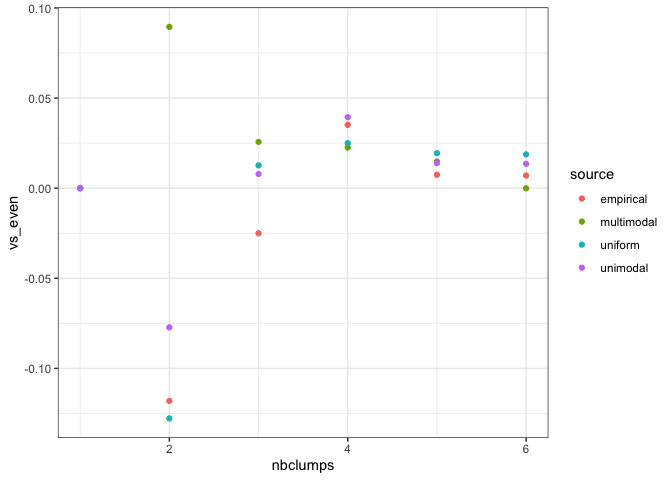
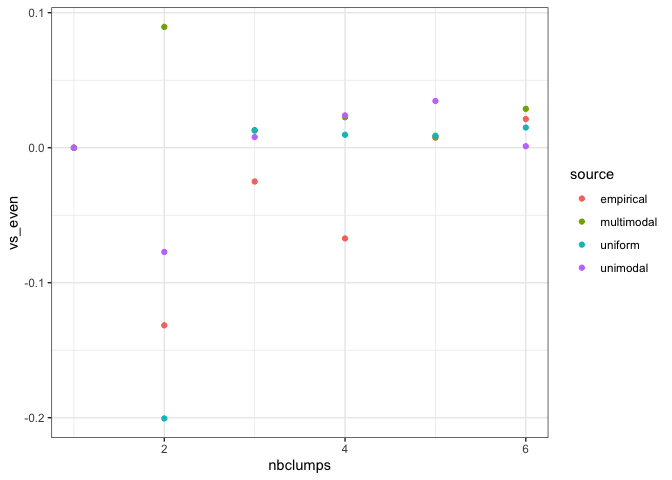
there's something funny about the elbow function

diff --git a/analysis/reports/bsd_decay.md b/analysis/reports/bsd_decay.md
@@ -43,26 +43,15 @@ unimodal_log_bsd <- draw_unimodal_bsd(ebsd$logwgt)
 mmodal_log_bsd_full <- draw_multimodal_bsd(emp_vector = ebsd$logwgt, min_sd_coeff = .5, max_sd_coeff = .5)
 
 mmodal_log_bsd <- mmodal_log_bsd_full$bsd
-even_log_bsd <- seq(from = .75 * min(ebsd$logwgt), to = 1.1 *max(ebsd$logwgt),
-                    length.out = length(ebsd$logwgt))
-
-
-uniform_bsd <- draw_uniform_bsd(s = nrow(ebsd), min = .75 * min(ebsd$meanwgt), max = 1.1 * max(ebsd$meanwgt))
-unimodal_bsd <- draw_unimodal_bsd(ebsd$meanwgt)
-mmodal_bsd_full <- draw_multimodal_bsd(emp_vector = ebsd$meanwgt, min_mode_gap = 20, min_sd_coeff = .5, max_sd_coeff = .5)
-mmodal_bsd <- mmodal_bsd_full$bsd
-even_bsd <- seq(from = .75 * min(ebsd$meanwgt), to = 1.1 *max(ebsd$meanwgt),
-                length.out = length(ebsd$meanwgt))
 ```
 
 ``` r
 all_log_bsds <- data.frame(
-  vals = c(mmodal_log_bsd, uniform_log_bsd, unimodal_log_bsd, ebsd$logwgt), #, even_log_bsd),
+  vals = c(mmodal_log_bsd, uniform_log_bsd, unimodal_log_bsd, ebsd$logwgt),
   source = c(rep("multimodal", nrow(ebsd)),
              rep("uniform", nrow(ebsd)), 
              rep("unimodal", nrow(ebsd)),
-             rep("empirical", nrow(ebsd)))#,
-  #rep("even", nrow(ebsd)))
+             rep("empirical", nrow(ebsd)))
 )
 
 
@@ -77,32 +66,6 @@ all_log_bsd_plot
 ![](bsd_decay_files/figure-markdown_github/visualize-1.png)
 
 ``` r
-all_bsds <- data.frame(
-  vals = c(mmodal_bsd, uniform_bsd, unimodal_bsd, ebsd$meanwgt), #, even_bsd),
-  source = c(rep("multimodal", nrow(ebsd)),
-             rep("uniform", nrow(ebsd)), 
-             rep("unimodal", nrow(ebsd)),
-             rep("empirical", nrow(ebsd)))#,
-  #rep("even", nrow(ebsd)))
-)
-
-
-all_bsd_plot <- ggplot(data = all_bsds, aes(x = vals, y = source, color = source)) +
-  geom_point() +
-  theme_bw() +
-  theme(legend.position = "none")
-
-all_bsd_plot
-```
-
-![](bsd_decay_files/figure-markdown_github/visualize-2.png)
-
-``` r
-# 
-# raw_ssq<- all_bsds %>%
-#   group_by(source) %>%
-#   summarize(ssq_prop = get_ssq_prop(vals))
-
 all_log_ssq <- list() 
 for(i in 1:6) {
   all_log_ssq[[i]] <-  all_log_bsds %>%
@@ -122,54 +85,12 @@ log_ssq_plot
 
 ![](bsd_decay_files/figure-markdown_github/playing%20with%20kmeans-1.png)
 
-``` r
-all_ssq <- list() 
-
-for(i in 1:10) {
-  all_ssq[[i]] <- all_bsds %>%
-    group_by(source) %>%
-    summarize(ssq_prop = get_ssq_prop(vals, nbclumps = i)) %>%
-    ungroup() %>%
-    mutate(nbclumps = i)
-}
-
-all_ssq <- bind_rows(all_ssq)
-
-ssq_plot <- ggplot(data =all_ssq, aes(x = nbclumps, y = ssq_prop, color = source)) + 
-  geom_line() +
-  theme_bw()
-ssq_plot
-```
-
-![](bsd_decay_files/figure-markdown_github/playing%20with%20kmeans-2.png)
-
-``` r
-#raw_ssq
-#log_ssq
-```
-
 Maybe you could pick the nb clumps based on the elbow of the scree plot of the within group sum of squares? When the slope starts to become less negative, truncate?
-
-``` r
-raw_elbows <- all_bsds %>%
-  group_by(source) %>%
-  summarize(elbow = get_kmeans_elbow(vals)) %>%
-  ungroup()
-raw_elbows
-```
-
-    ## # A tibble: 4 x 2
-    ##   source     elbow
-    ##   <fct>      <dbl>
-    ## 1 empirical      2
-    ## 2 multimodal     2
-    ## 3 uniform        2
-    ## 4 unimodal       2
 
 ``` r
 log_elbows <- all_log_bsds %>%
   group_by(source) %>%
-  summarize(elbow = get_kmeans_elbow(vals)) %>%
+  summarize(elbow = get_kmeans_elbow(vals, slope_cutoff = .5)) %>%
   ungroup()
 log_elbows
 ```
@@ -181,6 +102,22 @@ log_elbows
     ## 2 multimodal     2
     ## 3 uniform        3
     ## 4 unimodal       2
+
+``` r
+log_elbows2 <- all_log_bsds %>%
+  group_by(source) %>%
+  summarize(elbow = get_kmeans_elbow(vals, slope_cutoff = .25)) %>%
+  ungroup()
+log_elbows2
+```
+
+    ## # A tibble: 4 x 2
+    ##   source     elbow
+    ##   <fct>      <dbl>
+    ## 1 empirical      4
+    ## 2 multimodal     2
+    ## 3 uniform        3
+    ## 4 unimodal       4
 
 There's a lot to do, but at least for now it looks like multimodality actually comes through pretty sharply. Not on the log scale, though.
 
@@ -215,28 +152,9 @@ for(i in 1:6) {
 
     ## Warning: did not converge in 10 iterations
 
-    ## Warning: did not converge in 10 iterations
-
-    ## Warning: did not converge in 10 iterations
-
 ``` r
 all_log_v_even <- bind_rows(all_log_v_even)
 
-all_v_even <- list()
-
-for(i in 1:6) {
-  all_v_even[[i]] <- all_bsds %>%
-     group_by(source) %>%
-    summarize(vs_even = get_ssq_vs_even(vals, nbclumps = i)) %>%
-    ungroup() %>%
-    mutate(nbclumps = i)
-}
-```
-
-    ## Warning: did not converge in 10 iterations
-
-``` r
-all_v_even <- bind_rows(all_v_even)
 
 log_v_even_plot <-  ggplot(data = all_log_v_even, aes(x = nbclumps, y = vs_even, color = source)) +
   geom_point() +
@@ -246,12 +164,3 @@ log_v_even_plot
 ```
 
 ![](bsd_decay_files/figure-markdown_github/versus%20even-1.png)
-
-``` r
-all_v_even_plot <-  ggplot(data = all_v_even, aes(x = nbclumps, y = vs_even, color = source)) +
-  geom_point() +
-  theme_bw() 
-all_v_even_plot
-```
-
-![](bsd_decay_files/figure-markdown_github/versus%20even-2.png)
